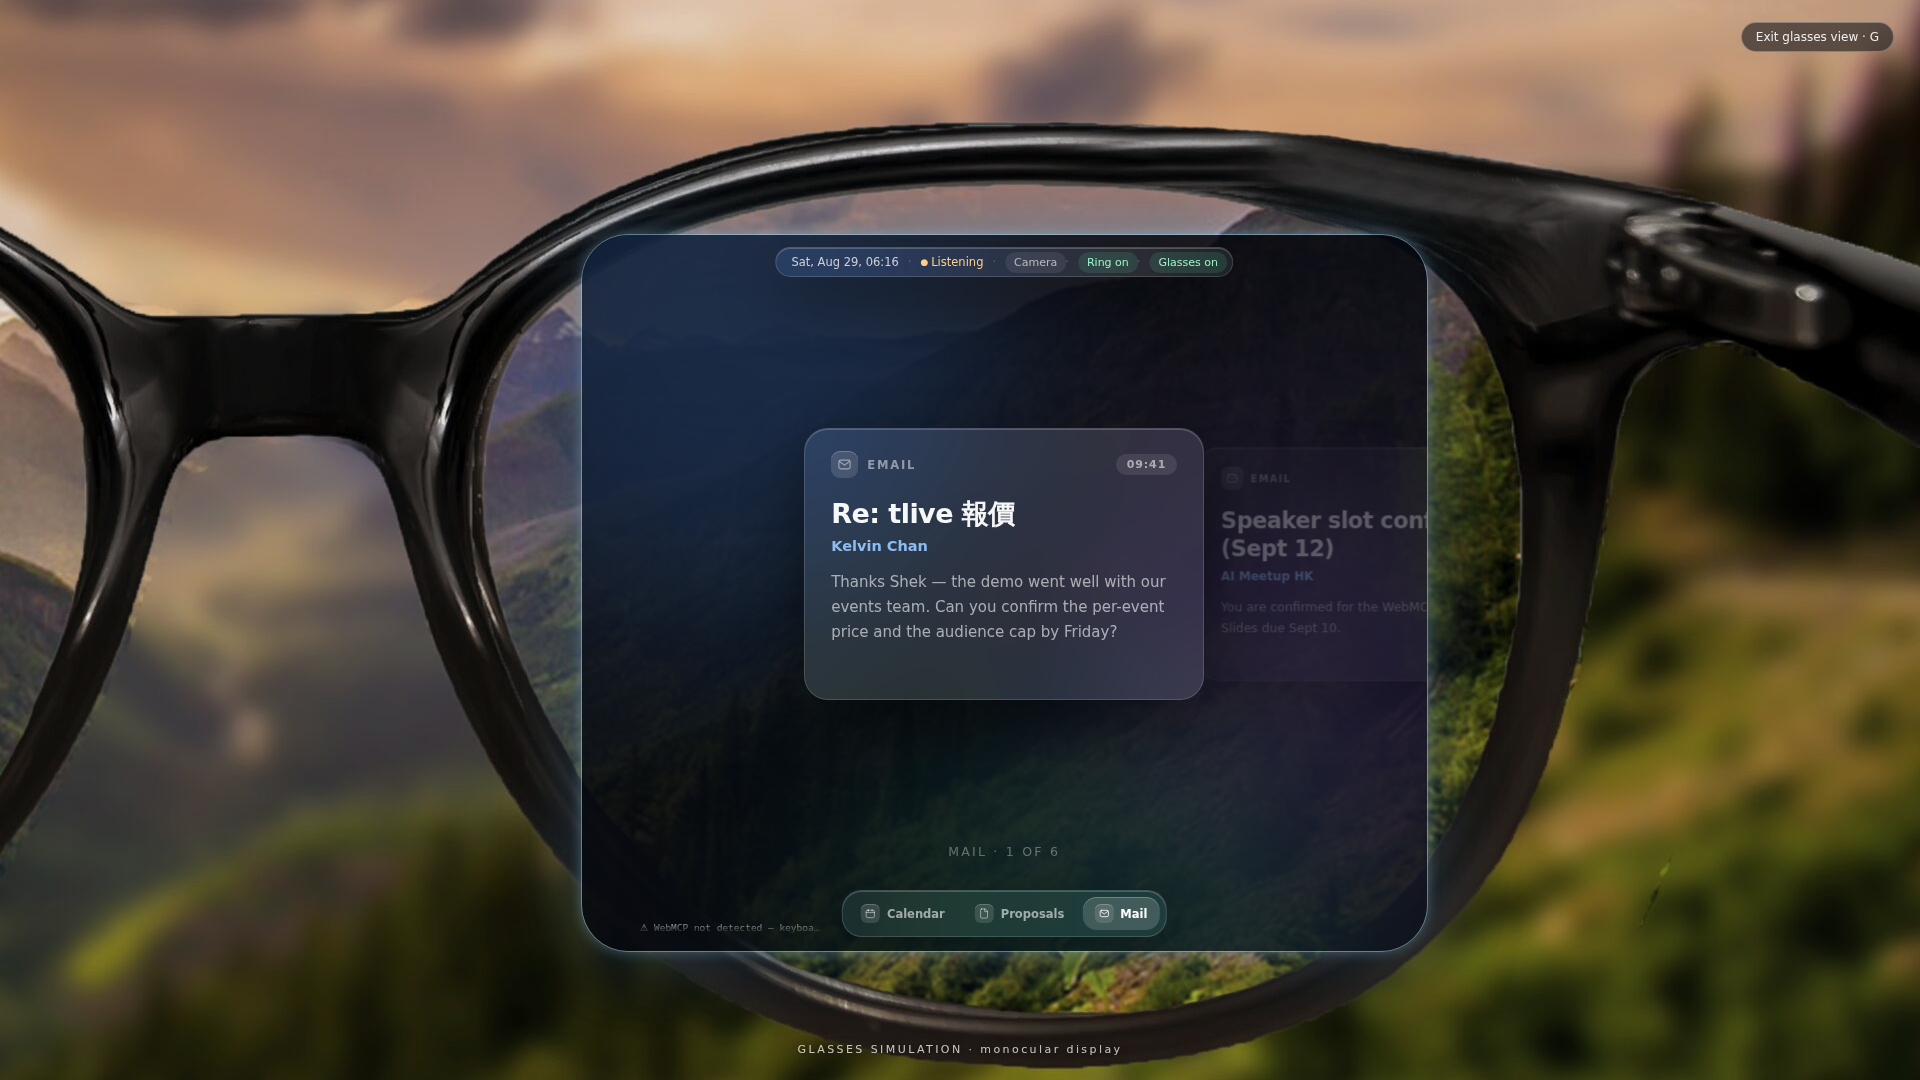
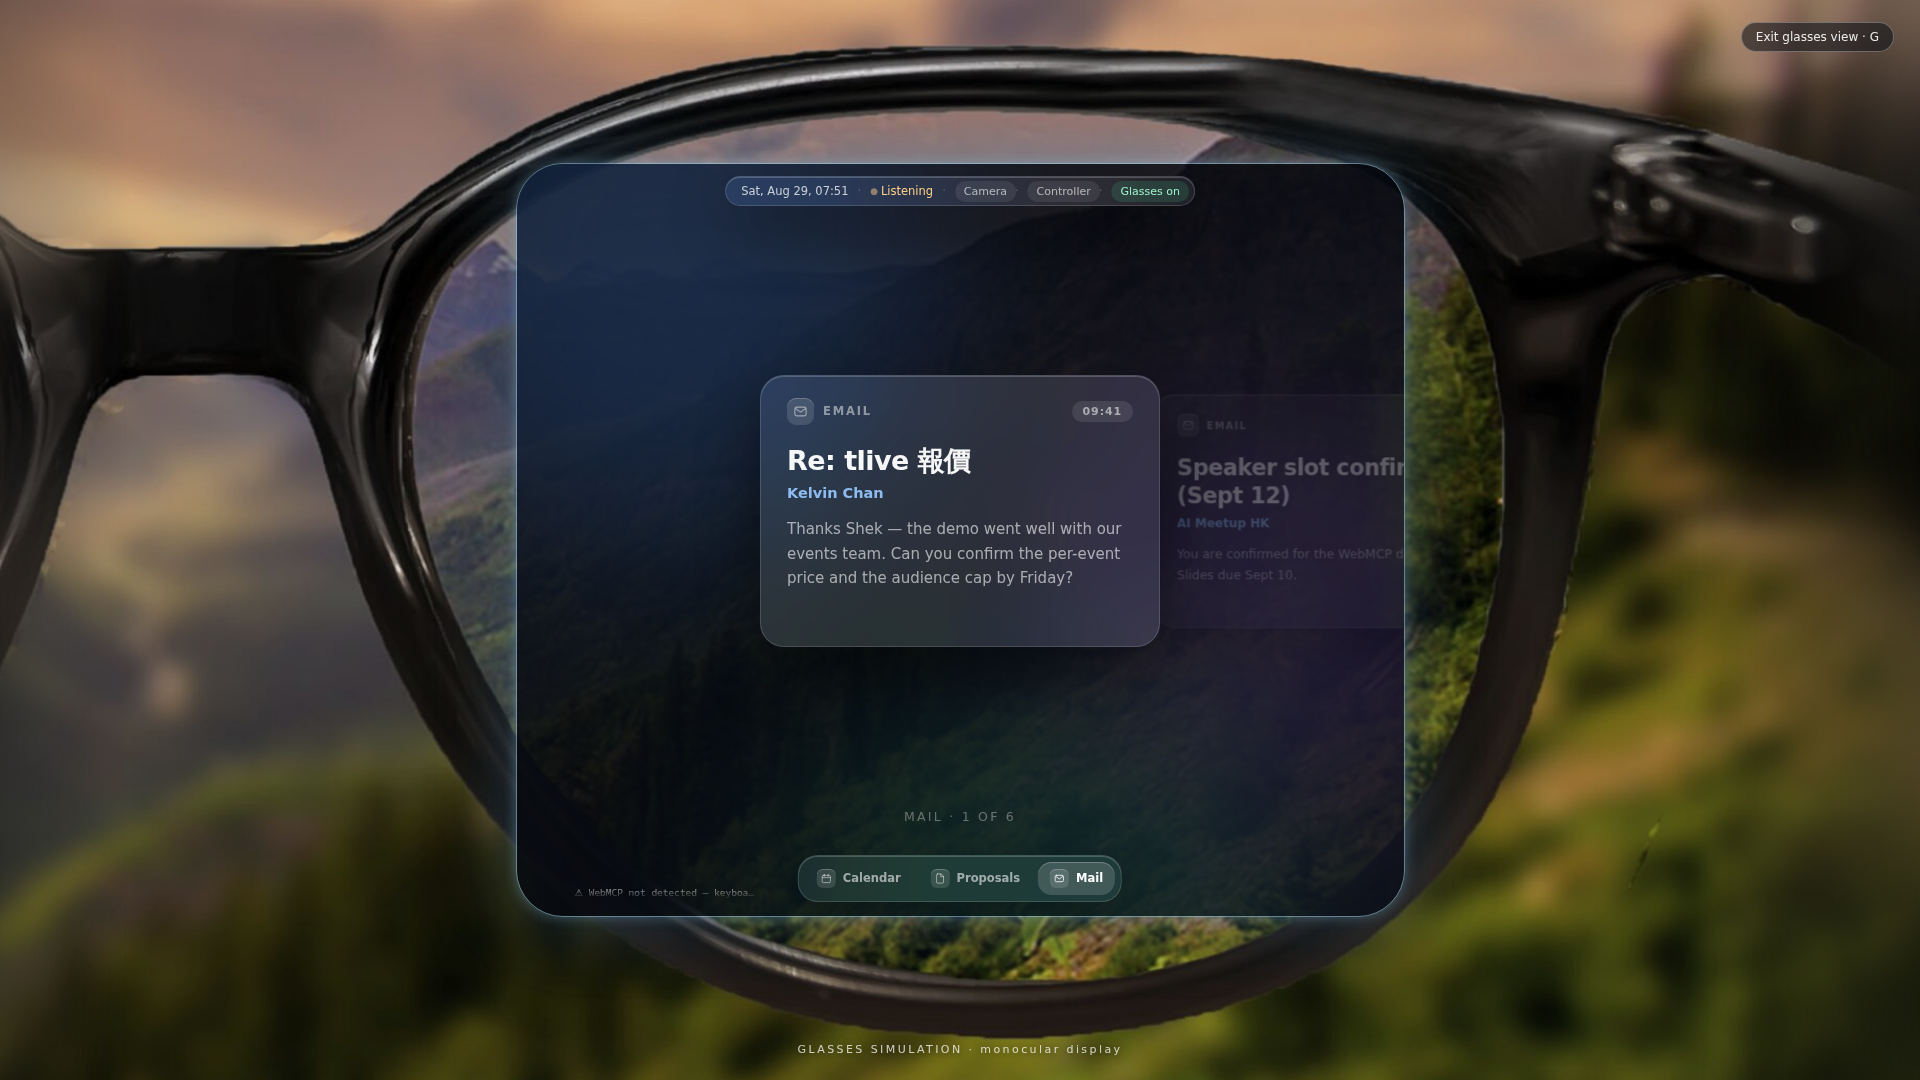
Glasses view: anchor on the frame, not the photo — lens stays centred, photo bleeds off the sides

diff --git a/src/views/glasses.ts b/src/views/glasses.ts
@@ -13,6 +13,41 @@ const STORAGE_KEY = "webmcp-surface-glasses";
 const IMAGE_ASPECT = 1920 / 1334;
 const LENS = { cx: 0.523, cy: 0.54, width: 0.44, aspect: 1.18 };
 
+// The glasses frame is the subject, not the photo. FRAME_SPAN is how much of
+// the image's height the frame occupies; the photo is scaled so the frame
+// fills between FILL_MIN and FILL_MAX of the viewport height, and the lens
+// centre is pinned to the viewport centre. On a wide screen the photo bleeds
+// off the sides (mostly the left, where the second lens is) instead of the
+// frame being cropped — so a wider window shows MORE frame, not less.
+const FRAME_SPAN = 0.75;
+const FILL_MIN = 0.94;
+const FILL_MAX = 1.0;
+// Keeping the lens centred means the photo must overhang by these factors to
+// leave no gap: 1 / max(cx, 1 - cx) horizontally, 1 / max(cy, 1 - cy) down.
+const COVER_W = 1.05;
+const COVER_H = 1.09;
+
+// Pure geometry so it can be tested without a DOM: given a viewport, where
+// does the photo go and how big is the lens display box carved into it.
+export function glassesGeometry(vw: number, vh: number) {
+  const cover = Math.max(COVER_H * vh, (COVER_W * vw) / IMAGE_ASPECT);
+  const dispH = Math.min(Math.max(cover, (vh * FILL_MIN) / FRAME_SPAN), (vh * FILL_MAX) / FRAME_SPAN);
+  const dispW = dispH * IMAGE_ASPECT;
+  const boxW = LENS.width * dispW;
+  const boxH = boxW / LENS.aspect;
+  return {
+    dispW,
+    dispH,
+    photoLeft: vw / 2 - LENS.cx * dispW,
+    photoTop: vh / 2 - LENS.cy * dispH,
+    boxLeft: vw / 2 - boxW / 2,
+    boxTop: vh / 2 - boxH / 2,
+    boxW,
+    boxH,
+    frameHeight: FRAME_SPAN * dispH,
+  };
+}
+
 function feed(line: string) {
   document.dispatchEvent(new CustomEvent<string>("agent-feed", { detail: line }));
 }
@@ -20,6 +55,7 @@ function feed(line: string) {
 export class GlassesMode {
   private button: HTMLButtonElement;
   private backdrop: HTMLElement;
+  private photo!: HTMLImageElement;
   private chrome: HTMLElement;
   private app: HTMLElement;
   private enabled = false;
@@ -74,27 +110,25 @@ export class GlassesMode {
     if (!silent) feed(this.enabled ? "glasses · monocular simulation on" : "glasses · simulation off");
   }
 
-  // The photo covers the viewport (object-fit: cover). Recompute where the
-  // lens landed on screen and give the app a real box of that size — resize,
-  // not scale, so the UI reflows to the lens shape and text stays readable.
+  // Scale the photo so the frame fills the viewport height (never cropped),
+  // pin the lens centre to the viewport centre, and grow the photo beyond
+  // that only as far as it takes to cover a wide window. The app gets a real
+  // box of the lens's size — resize, not scale, so the UI reflows to it.
   private reposition() {
     if (!this.enabled) return;
-    const vw = window.innerWidth;
-    const vh = window.innerHeight;
-    const dispH = Math.max(vh, vw / IMAGE_ASPECT);
-    const dispW = dispH * IMAGE_ASPECT;
-    const offsetX = (vw - dispW) / 2;
-    const offsetY = (vh - dispH) / 2;
-    const cx = offsetX + LENS.cx * dispW;
-    const cy = offsetY + LENS.cy * dispH;
-    const w = LENS.width * dispW;
-    const h = w / LENS.aspect;
+    const g = glassesGeometry(window.innerWidth, window.innerHeight);
+    Object.assign(this.photo.style, {
+      left: `${g.photoLeft.toFixed(1)}px`,
+      top: `${g.photoTop.toFixed(1)}px`,
+      width: `${g.dispW.toFixed(1)}px`,
+      height: `${g.dispH.toFixed(1)}px`,
+    });
     Object.assign(this.app.style, {
       position: "fixed",
-      left: `${(cx - w / 2).toFixed(1)}px`,
-      top: `${(cy - h / 2).toFixed(1)}px`,
-      width: `${w.toFixed(1)}px`,
-      height: `${h.toFixed(1)}px`,
+      left: `${g.boxLeft.toFixed(1)}px`,
+      top: `${g.boxTop.toFixed(1)}px`,
+      width: `${g.boxW.toFixed(1)}px`,
+      height: `${g.boxH.toFixed(1)}px`,
     });
   }
 
@@ -103,8 +137,11 @@ export class GlassesMode {
     el.id = "glasses-backdrop";
     el.hidden = true;
     el.setAttribute("aria-hidden", "true");
-    el.innerHTML = `<img src="/glasses-pov.jpg" alt="" draggable="false" />`;
+    el.innerHTML = `
+      <img class="ambient" src="/glasses-pov.jpg" alt="" draggable="false" />
+      <img class="pov" src="/glasses-pov.jpg" alt="" draggable="false" />`;
     document.body.appendChild(el);
+    this.photo = el.querySelector<HTMLImageElement>(".pov")!;
     return el;
   }
 

diff --git a/tests/glasses.test.ts b/tests/glasses.test.ts
@@ -1,0 +1,55 @@
+import { describe, expect, test } from "bun:test";
+import { glassesGeometry } from "../src/views/glasses";
+
+const VIEWPORTS = [
+  { name: "16:9 laptop", vw: 1920, vh: 1080 },
+  { name: "16:10 laptop", vw: 1440, vh: 900 },
+  { name: "ultrawide", vw: 2560, vh: 1000 },
+  { name: "very wide", vw: 3440, vh: 900 },
+  { name: "square-ish", vw: 1000, vh: 1000 },
+  { name: "portrait", vw: 480, vh: 900 },
+];
+
+describe("glasses geometry", () => {
+  for (const v of VIEWPORTS) {
+    test(`${v.name}: the frame stays whole and centred`, () => {
+      const g = glassesGeometry(v.vw, v.vh);
+      // The whole glasses frame fits inside the viewport height — a wider
+      // window must never crop it.
+      expect(g.frameHeight).toBeLessThanOrEqual(v.vh + 0.5);
+      expect(g.frameHeight / v.vh).toBeGreaterThan(0.9);
+      // Lens display box is centred on the viewport.
+      expect(g.boxLeft + g.boxW / 2).toBeCloseTo(v.vw / 2, 3);
+      expect(g.boxTop + g.boxH / 2).toBeCloseTo(v.vh / 2, 3);
+      // The photo never leaves a gap above or below.
+      expect(g.photoTop).toBeLessThanOrEqual(0);
+      expect(g.photoTop + g.dispH).toBeGreaterThanOrEqual(v.vh);
+      // The display box sits inside the photo's lens, not off it.
+      expect(g.boxW).toBeLessThan(g.dispW);
+      expect(g.boxH).toBeLessThan(g.dispH);
+    });
+  }
+
+  test("the photo bleeds off the left more than the right", () => {
+    const g = glassesGeometry(1920, 1080);
+    const leftOverhang = -g.photoLeft;
+    const rightOverhang = g.photoLeft + g.dispW - 1920;
+    expect(leftOverhang).toBeGreaterThan(rightOverhang);
+    expect(leftOverhang).toBeGreaterThan(0);
+  });
+
+  test("windows up to about 16:9 are covered edge to edge", () => {
+    for (const v of [{ vw: 1920, vh: 1080 }, { vw: 1440, vh: 900 }, { vw: 1280, vh: 800 }]) {
+      const g = glassesGeometry(v.vw, v.vh);
+      expect(g.photoLeft).toBeLessThanOrEqual(0);
+      expect(g.photoLeft + g.dispW).toBeGreaterThanOrEqual(v.vw);
+    }
+  });
+
+  test("a wider window shows the frame at least as large, never smaller", () => {
+    const narrow = glassesGeometry(1400, 900);
+    const wide = glassesGeometry(2600, 900);
+    expect(wide.frameHeight).toBeGreaterThanOrEqual(narrow.frameHeight);
+    expect(wide.boxW).toBeGreaterThanOrEqual(narrow.boxW);
+  });
+});

diff --git a/src/style.css b/src/style.css
@@ -412,12 +412,28 @@ body {
    is scaled and pinned inside the lens by JS (glasses.ts), so it stays on
    the glasses at any window size. Purely presentational — every input
    channel keeps working underneath. */
-#glasses-backdrop { position: fixed; inset: 0; z-index: 1; pointer-events: none; }
+#glasses-backdrop {
+  position: fixed; inset: 0; z-index: 1; pointer-events: none;
+  overflow: hidden; background: #05070d;
+}
 #glasses-backdrop[hidden] { display: none; }
-#glasses-backdrop img {
-  width: 100%; height: 100%; object-fit: cover; object-position: center;
+#glasses-backdrop img { user-select: none; }
+/* Peripheral fill: only visible on windows wider than the photo can cover
+   once the frame is centred — reads as out-of-focus periphery. */
+#glasses-backdrop .ambient {
+  position: absolute; inset: -8%; width: 116%; height: 116%;
+  object-fit: cover; object-position: center;
+  filter: blur(44px) saturate(0.6) brightness(0.62);
+}
+/* The photo itself: sized and pinned by glasses.ts so the lens centre sits at
+   the viewport centre. Its own edges fade out, so where it stops on an
+   ultra-wide window it melts into the peripheral fill instead of showing a
+   hard seam. */
+#glasses-backdrop .pov {
+  position: absolute;
   filter: saturate(0.82) brightness(0.9);
-  user-select: none;
+  -webkit-mask-image: linear-gradient(90deg, transparent 0, #000 11%, #000 89%, transparent 100%);
+  mask-image: linear-gradient(90deg, transparent 0, #000 11%, #000 89%, transparent 100%);
 }
 
 body.glasses-on #app {

diff --git a/README.md b/README.md
@@ -74,9 +74,14 @@ a monocular AR display — driven by voice (through the agent) and a ring, with
 no keyboard in reach. This is a real **glasses breakpoint**, not a scaled-down
 screen: the app is given a genuine near-square viewport carved into the lens,
 so the layout reflows (compact chip, tighter cards, denser calendar) and text
-stays readable — the same way a phone breakpoint reflows a desktop page. JS
-re-pins the box as the window resizes so it always stays on the glass (`LENS`
-in `src/views/glasses.ts` holds the lens coordinates if the photo changes).
+stays readable — the same way a phone breakpoint reflows a desktop page. The
+frame is the subject, not the photo: JS scales the shot so the whole glasses
+frame fits the window height and pins the lens centre to the screen centre, so
+the photo bleeds off the sides (mostly the left) rather than the frame being
+cropped — a wider window shows more frame, never less. Beyond about 16:9 the
+photo stops short of the edges and fades into an out-of-focus peripheral fill
+(`LENS`, `FRAME_SPAN` and `FILL_*` in `src/views/glasses.ts` hold the tuning if
+the photo changes; `tests/glasses.test.ts` pins the geometry).
 The page's capabilities don't change between contexts; only the input
 channels and the layout do.
 
